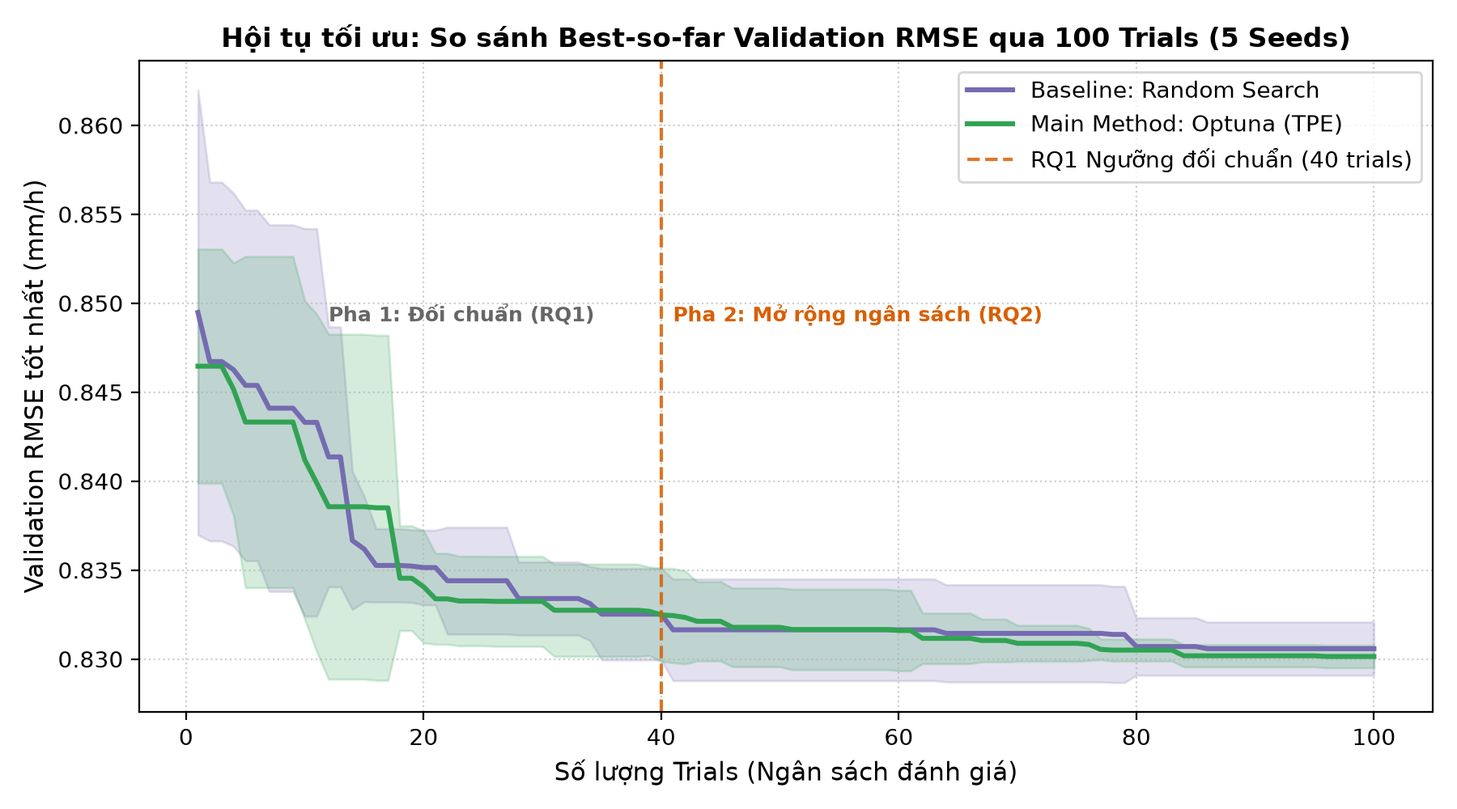
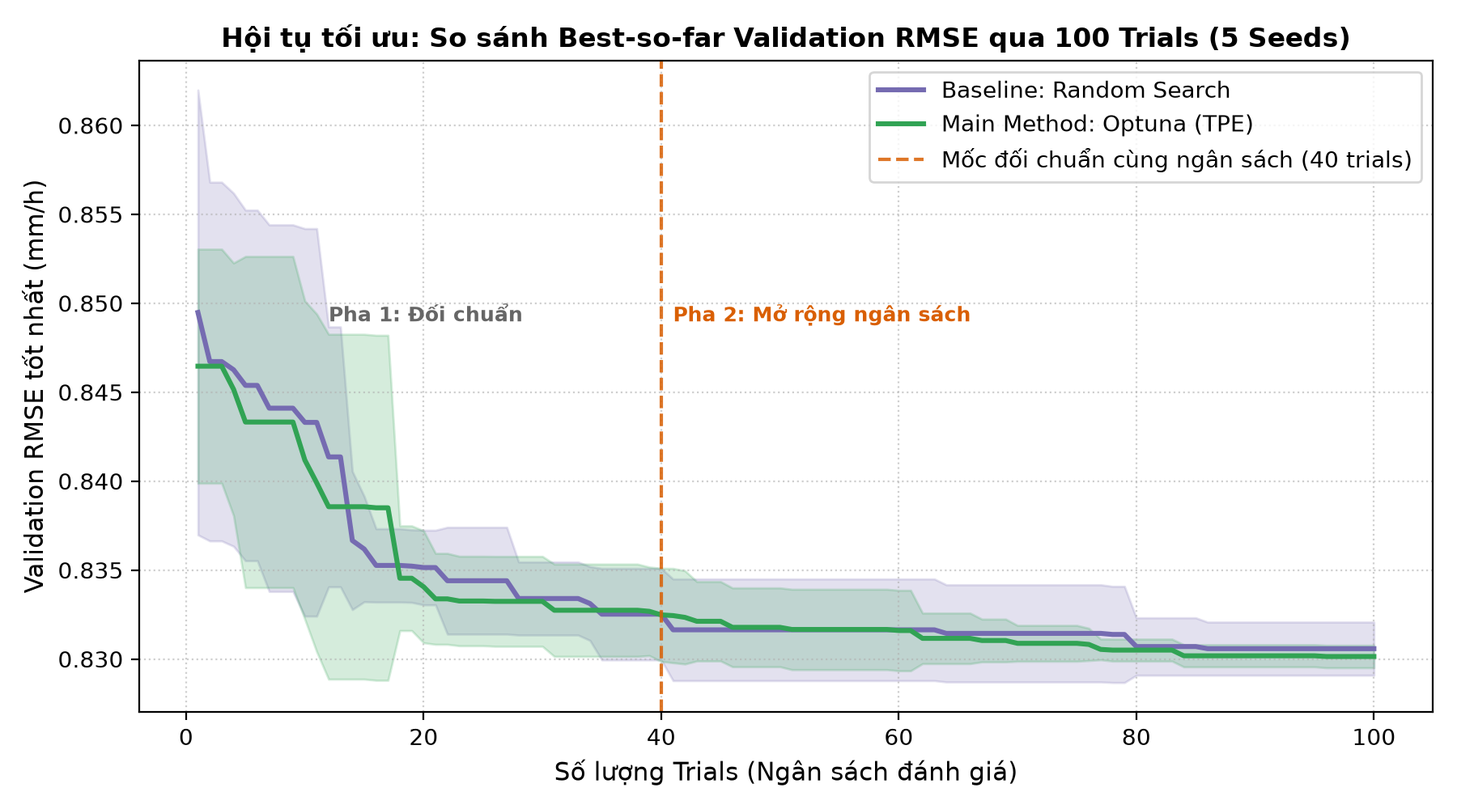
update 03/11/2026

Changed region(s): [[0.5911, 0.093, 0.9333, 0.217], [0.6533, 0.372, 0.7156, 0.403], [0.3422, 0.372, 0.4044, 0.403]]

diff --git a/web/index.html b/web/index.html
@@ -121,7 +121,7 @@
             <li>Baseline <span>Random Search</span></li>
             <li>Phương pháp chính <span>Optuna TPE + <code>constraints_func</code></span></li>
             <li>Ngân sách mỗi phương pháp <span id="budget-text">—</span></li>
-            <li>Pha 1 (RQ1) <span>40 trials đầu mỗi seed</span></li>
+            <li>Pha 1 <span>40 trials đầu mỗi seed</span></li>
             <li>Tập Test <span>dùng 1 lần, sau khi chọn nghiệm</span></li>
           </ul>
         </article>

diff --git a/web/app.js b/web/app.js
@@ -847,7 +847,7 @@ function drawConvergence() {
   drawAxisX(f, x, xTicks, String);
   drawAxisTitles(f, "Val RMSE (mm/h)", "Số trial đã chạy (mỗi seed)");
 
-  // Hết Pha 1 (so sánh cùng ngân sách cho RQ1)
+  // Hết Pha 1 (so sánh cùng ngân sách)
   if (n >= 40) {
     svgEl("line", { x1: x(40), x2: x(40), y1: f.y1, y2: f.y0, class: "ref-line" }, f.svg);
     svgEl("text", { x: x(40) + 6, y: f.y1 + 10, class: "ref-label" }, f.svg).textContent = "Hết Pha 1 (40 trials)";

diff --git a/src/evaluation/evaluate_final.py b/src/evaluation/evaluate_final.py
@@ -12,7 +12,7 @@ Module đánh giá cuối cùng và trực quan hóa đa mô hình.
 7. Giải lại bài toán epsilon-constraint cho nhiều ngân sách độ trễ (quyết định theo từng kịch bản) và
    báo cáo chi phí tìm kiếm (số lượt đánh giá; thời gian chạy khi log có cột trial_time_s).
 
-Đầu ra (nguồn số liệu gốc duy nhất cho README / bài báo):
+Đầu ra (nguồn số liệu gốc duy nhất cho README / báo cáo):
     results/multi_model_benchmark.csv, results/final_test_metrics.json, results/epsilon_scenarios.csv,
     results/figures/*.png
 Lưu ý: độ trễ của Persistence / Climatology là giá trị danh nghĩa cố định, không phải giá trị đo.
@@ -189,7 +189,7 @@ def plot_pareto_frontier(df_all: pd.DataFrame):
 
 
 def plot_convergence_comparison(df_random: pd.DataFrame, df_optuna: pd.DataFrame):
-    """Vẽ đường tốt nhất tính đến hiện tại theo từng trial (có mốc 40 trial của RQ1): Random Search vs Optuna TPE."""
+    """Vẽ đường tốt nhất tính đến hiện tại theo từng trial (có mốc 40 trial của Pha 1): Random Search vs Optuna TPE."""
     plt.figure(figsize=(9, 5))
 
     def get_convergence_matrix(df: pd.DataFrame) -> np.ndarray:
@@ -225,11 +225,11 @@ def plot_convergence_comparison(df_random: pd.DataFrame, df_optuna: pd.DataFrame
     plt.plot(trials_axis, mean_o, label="Main Method: Optuna (TPE)", color="#31a354", linewidth=2.2)
     plt.fill_between(trials_axis, mean_o - std_o, mean_o + std_o, color="#31a354", alpha=0.2)
 
-    # Đánh dấu mốc cắt RQ1 tại trial 40 nếu mỗi seed có ít nhất 40 trial
+    # Đánh dấu mốc cắt Pha 1 tại trial 40 nếu mỗi seed có ít nhất 40 trial
     if len(trials_axis) >= 40:
-        plt.axvline(x=40, color="#d95f02", linestyle="--", linewidth=1.5, alpha=0.85, label="RQ1 Ngưỡng đối chuẩn (40 trials)")
-        plt.text(41, np.nanmax(mean_r) - 0.0005, "Pha 2: Mở rộng ngân sách (RQ2)", fontsize=9, color="#d95f02", fontweight="bold")
-        plt.text(12, np.nanmax(mean_r) - 0.0005, "Pha 1: Đối chuẩn (RQ1)", fontsize=9, color="#666666", fontweight="bold")
+        plt.axvline(x=40, color="#d95f02", linestyle="--", linewidth=1.5, alpha=0.85, label="Mốc đối chuẩn cùng ngân sách (40 trials)")
+        plt.text(41, np.nanmax(mean_r) - 0.0005, "Pha 2: Mở rộng ngân sách", fontsize=9, color="#d95f02", fontweight="bold")
+        plt.text(12, np.nanmax(mean_r) - 0.0005, "Pha 1: Đối chuẩn", fontsize=9, color="#666666", fontweight="bold")
 
     n_trials_per_seed = len(trials_axis)
     plt.title(f"Hội tụ tối ưu: So sánh Best-so-far Validation RMSE qua {n_trials_per_seed} Trials (5 Seeds)", fontsize=12, fontweight="bold")

diff --git a/src/models/optimize_optuna.py b/src/models/optimize_optuna.py
@@ -6,8 +6,8 @@ Tìm biến quyết định x = (L, theta) trên một không gian tìm kiếm c
     - theta: Các siêu tham số của LightGBM
 Hàm mục tiêu: cực tiểu hóa RMSE trên tập Val với ràng buộc độ trễ end-to-end P95 <= 5.0 ms,
         đo theo giao thức pha tìm kiếm (SEARCH_PROTOCOL trong src/evaluation/latency.py), giống lúc sinh log.
-Ngân sách: mặc định 100 trial/seed với 5 seed ngẫu nhiên (tổng 500 lượt đánh giá, RQ2 - mở rộng ngân sách);
-        có thể đặt 40 trial/seed (200 lượt đánh giá) để so sánh công bằng cùng ngân sách cho RQ1.
+Ngân sách: mặc định 100 trial/seed với 5 seed ngẫu nhiên (tổng 500 lượt đánh giá, giai đoạn 2 - mở rộng ngân sách);
+        có thể đặt 40 trial/seed (200 lượt đánh giá) để so sánh công bằng cùng ngân sách ở giai đoạn 1.
 Chi phí tìm kiếm: mỗi trial trong log đều ghi trial_time_s (số giây thực tế cho lấy mẫu TPE, huấn luyện,
         đánh giá trên tập Val và benchmark độ trễ).
 """
@@ -167,8 +167,8 @@ def run_optuna_search(n_trials: int = 40, seeds: List[int] = DEFAULT_SEEDS) -> p
 
 
 if __name__ == "__main__":
-    parser = argparse.ArgumentParser(description="Run Constrained Optuna TPE Optimization (RQ1 & RQ2).")
-    parser.add_argument("--trials", type=int, default=100, help="Number of trials per seed (default: 100 for 500 scaling trials; set 40 for RQ1 fair comparison)")
+    parser = argparse.ArgumentParser(description="Run Constrained Optuna TPE Optimization.")
+    parser.add_argument("--trials", type=int, default=100, help="Number of trials per seed (default: 100 for 500 scaling trials; set 40 for the phase-1 equal-budget comparison)")
     parser.add_argument("--seeds", type=int, nargs="+", default=DEFAULT_SEEDS, help="Random seeds (default: 5 seeds)")
     args = parser.parse_args()
 

diff --git a/src/models/optimize_random.py b/src/models/optimize_random.py
@@ -6,8 +6,8 @@ Tìm biến quyết định x = (L, theta) trên một không gian tìm kiếm c
     - theta: Các siêu tham số của LightGBM
 Hàm mục tiêu: cực tiểu hóa RMSE trên tập Val với ràng buộc độ trễ end-to-end P95 <= 5.0 ms,
         đo theo giao thức pha tìm kiếm (SEARCH_PROTOCOL trong src/evaluation/latency.py), giống lúc sinh log.
-Ngân sách: mặc định 100 trial/seed với 5 seed ngẫu nhiên (tổng 500 lượt đánh giá, RQ2 - mở rộng ngân sách);
-        có thể đặt 40 trial/seed (200 lượt đánh giá) để so sánh công bằng cùng ngân sách cho RQ1.
+Ngân sách: mặc định 100 trial/seed với 5 seed ngẫu nhiên (tổng 500 lượt đánh giá, giai đoạn 2 - mở rộng ngân sách);
+        có thể đặt 40 trial/seed (200 lượt đánh giá) để so sánh công bằng cùng ngân sách ở giai đoạn 1.
 Chi phí tìm kiếm: mỗi trial trong log đều ghi trial_time_s (số giây thực tế cho lấy mẫu, huấn luyện,
         đánh giá trên tập Val và benchmark độ trễ).
 """
@@ -184,8 +184,8 @@ def run_random_search(n_trials: int = 40, seeds: List[int] = DEFAULT_SEEDS) -> p
 
 
 if __name__ == "__main__":
-    parser = argparse.ArgumentParser(description="Run Constrained Random Search Baseline (RQ1 & RQ2).")
-    parser.add_argument("--trials", type=int, default=100, help="Number of trials per seed (default: 100 for 500 scaling trials; set 40 for RQ1 fair comparison)")
+    parser = argparse.ArgumentParser(description="Run Constrained Random Search Baseline.")
+    parser.add_argument("--trials", type=int, default=100, help="Number of trials per seed (default: 100 for 500 scaling trials; set 40 for the phase-1 equal-budget comparison)")
     parser.add_argument("--seeds", type=int, nargs="+", default=DEFAULT_SEEDS, help="Random seeds (default: 5 seeds)")
     args = parser.parse_args()
 

diff --git a/README.md b/README.md
@@ -6,14 +6,14 @@
 [![Data License: CC BY-NC 4.0](https://img.shields.io/badge/Data%20License-CC%20BY--NC%204.0-lightgrey.svg)](https://creativecommons.org/licenses/by-nc/4.0/)
 [![Optimization: Optuna TPE](https://img.shields.io/badge/Optimization-Optuna%20TPE-orange.svg)](https://optuna.org/)
 
-> **Course Project:** Introduction to Optimization (*Nhập môn Tối ưu hóa*)  
-> **Institution:** Faculty of Information Technology, Van Lang University  
-> **Topic:** Supervised Time-Series Forecasting under Hardware/Latency Constraint  
+> **Bài tập lớn môn:** Nhập môn Tối ưu hóa (*Introduction to Optimization*)  
+> **Đơn vị:** Khoa Công nghệ Thông tin, Trường Đại học Văn Lang  
+> **Chủ đề:** Dự báo chuỗi thời gian có giám sát dưới ràng buộc độ trễ suy luận  
 >  
-> 📄 **Official Research Deliverables:**  
-> * **Báo cáo Nghiên cứu Khoa học Toàn diện (Academic Paper PDF):** [`docs/BAI_BAO_KHOA_HOC_TOI_UU_HOA_DU_BAO_LUONG_MUA.pdf`](docs/BAI_BAO_KHOA_HOC_TOI_UU_HOA_DU_BAO_LUONG_MUA.pdf) *(Bản Markdown: [`docs/BAI_BAO_KHOA_HOC_TOI_UU_HOA_DU_BAO_LUONG_MUA.md`](docs/BAI_BAO_KHOA_HOC_TOI_UU_HOA_DU_BAO_LUONG_MUA.md))*  
-> * **Đề cương Thuyết minh Đề tài (Proposal PDF):** [`docs/PROPOSAL_TOI_UU_HOA_DU_BAO_LUONG_MUA.pdf`](docs/PROPOSAL_TOI_UU_HOA_DU_BAO_LUONG_MUA.pdf) *(Bản Markdown: [`docs/PROPOSAL.md`](docs/PROPOSAL.md))*  
-> * **Web Dashboard Tương tác Trực quan:** `python src/server.py` → Truy cập tại `http://127.0.0.1:8000`
+> 📄 **Tài liệu bài tập lớn:**  
+> * **Báo cáo bài tập lớn (PDF):** [`docs/BAO_CAO_BAI_TAP_LON_TOI_UU_HOA_DU_BAO_LUONG_MUA.pdf`](docs/BAO_CAO_BAI_TAP_LON_TOI_UU_HOA_DU_BAO_LUONG_MUA.pdf)  
+> * **Đề cương bài tập lớn (PDF):** [`docs/PROPOSAL_TOI_UU_HOA_DU_BAO_LUONG_MUA.pdf`](docs/PROPOSAL_TOI_UU_HOA_DU_BAO_LUONG_MUA.pdf) *(Bản Markdown: [`docs/PROPOSAL.md`](docs/PROPOSAL.md))*  
+> * **Web Dashboard trực quan:** `python src/server.py` → Truy cập tại `http://127.0.0.1:8000`
 
 ---
 
@@ -21,10 +21,7 @@
 
 Ngập lụt đô thị do mưa lớn cường độ cao trong thời gian ngắn là một thách thức vận hành cấp bách ở các đô thị lớn như TP. Hồ Chí Minh. Hệ thống cảnh báo ngập sớm cần dự báo lượng mưa giờ tới đủ tin cậy. Tuy nhiên, khi triển khai thời gian thực trên thiết bị biên hoặc máy chủ, việc nâng cao độ chính xác dự báo không được kéo theo chi phí tính toán quá lớn.
 
-**Câu hỏi nghiên cứu:**  
-* **RQ1 (So sánh công bằng với cùng ngân sách):** Với cùng một ngân sách đánh giá ($N = 40$ trial/seed trên 5 random seed), tối ưu Bayes bằng Optuna TPE có tìm được cấu hình khả thi ($P_{95} \le 5.0\text{ ms}$) với Val RMSE thấp hơn và tỷ lệ khả thi cao hơn rõ rệt so với Random Search hay không?
-* **RQ2 (Mở rộng ngân sách và điểm bão hòa):** Khi tăng ngân sách lên $N = 100$ trial/seed $\times$ 5 seed = 500 trial, nghiệm tối ưu có tiếp tục cải thiện không, và quá trình hội tụ bắt đầu bão hòa ở đâu?
-* **RQ3 (Đánh đổi giữa độ chính xác và độ trễ):** Trên các mức dung lượng mô hình ($n_{\text{estimators}} \in \{20, 50, 100, 150, 200, 300\}$) và các cửa sổ lịch sử $L$, biên Pareto thể hiện sự đánh đổi giữa độ chính xác dự báo và độ trễ thực thi như thế nào?
+Bài tập lớn đưa yêu cầu này về một bài toán tối ưu có ràng buộc (mục 2): chọn độ dài cửa sổ lịch sử $L$ và các siêu tham số của LightGBM sao cho sai số trên tập Validation nhỏ nhất, với điều kiện độ trễ suy luận $P_{95}$ không vượt quá 5 ms, rồi so sánh hai phương pháp tìm kiếm là Random Search và Optuna TPE.
 
 * **Biến mục tiêu:** Tổng lượng mưa của 1 giờ tới ($y_{t+1}$, đơn vị mm) tại trạm Tân Sơn Nhất (mã WMO: `48900`).
 * **Nguồn dữ liệu thô và cổng kiểm soát chất lượng (Data Quality Gate):**
@@ -32,7 +29,7 @@ Ngập lụt đô thị do mưa lớn cường độ cao trong thời gian ngắ
   - **Năm 2021:** Thiếu **100.0%** dữ liệu lượng mưa (trạm 48900 chưa tích hợp cảm biến đo mưa theo giờ).
   - **Năm 2022:** Thiếu **40.23%** (chỉ bắt đầu ghi nhận từ giữa năm 2022).
   
-  Ngược lại, giai đoạn 3 năm liên tục **2023–2025** (26.304 giờ) đạt độ đầy đủ vượt trội (năm 2023 thiếu 0.00%, năm 2024 thiếu 2.93%, năm 2025 thiếu 3.47%, trung bình toàn kỳ chỉ **2.13%**, đạt chuẩn $\le 5\%$) và được chọn làm tập dữ liệu nghiên cứu chính thức. Ngưỡng 5% theo năm được kiểm tra tự động mỗi lần nạp dữ liệu (`check_quality_gate` trong `src/features/build_features.py`): nếu dữ liệu tải lại có năm nào thiếu quá 5%, pipeline dừng và báo lỗi thay vì chạy tiếp.
+  Ngược lại, giai đoạn 3 năm liên tục **2023–2025** (26.304 giờ) đạt độ đầy đủ vượt trội (năm 2023 thiếu 0.00%, năm 2024 thiếu 2.93%, năm 2025 thiếu 3.47%, trung bình toàn kỳ chỉ **2.13%**, đạt chuẩn $\le 5\%$) và được chọn làm tập dữ liệu chính thức của bài tập lớn. Ngưỡng 5% theo năm được kiểm tra tự động mỗi lần nạp dữ liệu (`check_quality_gate` trong `src/features/build_features.py`): nếu dữ liệu tải lại có năm nào thiếu quá 5%, pipeline dừng và báo lỗi thay vì chạy tiếp.
 
 ---
 
@@ -70,8 +67,8 @@ $$T_{\text{e2e}} = T_{\text{feature\_transform}}(L) + T_{\text{predict}}(\theta)
 * **Đo lường đa lượt (Multi-run Stability):** Mô hình champion được đo lường qua 5 phiên độc lập (mỗi phiên 100 lần lặp sau 20 lần warmup) và báo cáo giá trị trung vị (median) cùng khoảng dao động $[\min, \max]$. Với giao thức `deploy`, bộ thu gom rác (GC) của Python được tạm dừng trong vòng đo (giống `timeit`) để loại nhiễu GC khỏi đuôi $P_{95}$.
 
 ### Two-Tier Experimental Budget Protocol
-* **Phase 1: Equal-Budget Comparison (RQ1):** Random Search vs Optuna TPE at **40 trials per seed** across 5 random seeds (`42, 123, 456, 789, 2026`) — total 200 evaluations per method. Phase 1 is read from the **first 40 trials of each 100-trial run** (TPE does not know the total budget, so its first 40 proposals are identical to a standalone 40-trial run). Optuna achieves **59.0% feasible rate** (118/200) vs **39.0%** (78/200) for Random Search (**+20.0 pp**). At this budget the best feasible Val RMSE is the same for both methods ($0.8325 \pm 0.0029$).
-* **Phase 2: Budget Scaling & Convergence Analysis (RQ2):** Scale budget up to **100 trials per seed $\times$ 5 seeds = 500 trials** per method (1,000 total evaluations). Across seeds, the spread of Optuna's best Val RMSE shrinks from $\sigma = 0.0029$ (40 trials) to $\sigma = 0.0007$ (100 trials), versus $\sigma = 0.0017$ for 100-trial Random Search ($-57.6\%$). Optuna achieves **62.4% feasible rate** (312/500) vs **48.6%** (243/500) for Random Search (**+13.8 pp**).
+* **Phase 1: Equal-Budget Comparison:** Random Search vs Optuna TPE at **40 trials per seed** across 5 random seeds (`42, 123, 456, 789, 2026`) — total 200 evaluations per method. Phase 1 is read from the **first 40 trials of each 100-trial run** (TPE does not know the total budget, so its first 40 proposals are identical to a standalone 40-trial run). Optuna achieves **59.0% feasible rate** (118/200) vs **39.0%** (78/200) for Random Search (**+20.0 pp**). At this budget the best feasible Val RMSE is the same for both methods ($0.8325 \pm 0.0029$).
+* **Phase 2: Budget Scaling & Convergence Analysis:** Scale budget up to **100 trials per seed $\times$ 5 seeds = 500 trials** per method (1,000 total evaluations). Across seeds, the spread of Optuna's best Val RMSE shrinks from $\sigma = 0.0029$ (40 trials) to $\sigma = 0.0007$ (100 trials), versus $\sigma = 0.0017$ for 100-trial Random Search ($-57.6\%$). Optuna achieves **62.4% feasible rate** (312/500) vs **48.6%** (243/500) for Random Search (**+13.8 pp**).
 * **Selection Rule:** Chọn nghiệm có validation RMSE thấp nhất trong tập các cấu hình khả thi ($T_{\text{e2e}} \le 5.0\text{ ms}$).
 * **ε-constraint:** Về phương pháp, bài toán trên là dạng **ε-constraint** của bài toán hai mục tiêu (min RMSE, min độ trễ) với $\varepsilon = 5.0\text{ ms}$. Mục 4.4 giải lại bài toán với nhiều mức $\varepsilon$ để ra quyết định theo kịch bản triển khai.
 * **Test Evaluation:** Đánh giá đúng 1 lần duy nhất trên tập Test (H2/2025) để đối chuẩn khách quan.
@@ -177,7 +174,7 @@ Báo cáo thống kê trung bình $\pm$ độ lệch chuẩn trên 5 random seed
 | **Độ trễ End-to-End Champion (C-API)** | 0.936 ms | **0.683 ms** *(range [0.66, 0.75])* | **Thỏa mãn SLA 5.0 ms & Biên an toàn 4.5 ms** |
 | **Chỉ số F1 phát hiện mưa dông trên Test** | 0.5778 | **0.5882** | Optuna cao hơn +1.04 điểm phần trăm |
 
-*Ghi chú khoa học về Kiểm định & Cơ chế Ràng buộc:* Bề mặt hàm mục tiêu Validation quanh vùng tối ưu khá phẳng với nhiều cấu hình ($L=1, 36, 48$ và `max_depth` khác nhau) đều cho sai số trong khoảng 0.8297–0.8318 (kiểm định Paired $t$-test trên 5 seeds không bác bỏ $H_0$ với $p = 0.6742$). Về tỷ lệ khả thi, hai cách kiểm định cho hai mức độ tin cậy khác nhau: (i) Fisher's exact test gộp 1.000 trials cho $p = 1.47 \times 10^{-5}$ ($\chi^2 = 18.72$ có hiệu chỉnh Yates, OR = 1.76, 95% CI $[+7.7\%, +19.9\%]$), nhưng phép thử này **giả định các trial độc lập**, trong khi TPE đề xuất trial sau dựa trên các trial trước nên các trial cùng seed tương quan với nhau; (ii) kiểm định theo seed (đúng đơn vị lặp lại độc lập) cho thấy Optuna dẫn ở 4/5 seeds nhưng **chưa đạt ý nghĩa thống kê** (Wilcoxon $p = 0.1875$, paired $t$-test $p = 0.162$; với $n = 5$, Wilcoxon hai phía không thể cho $p < 0.0625$). Kết luận thận trọng: ưu thế tỷ lệ khả thi của Optuna nhất quán về hướng nhưng cần thêm seed để khẳng định. Lợi thế thực tiễn rõ ràng nhất là Optuna tìm ra kiến trúc tinh gọn $L=1$ (giảm 77.8% số chiều đặc trưng và 83.3% số hàng đệm chuỗi thời gian).
+*Ghi chú về Kiểm định & Cơ chế Ràng buộc:* Bề mặt hàm mục tiêu Validation quanh vùng tối ưu khá phẳng với nhiều cấu hình ($L=1, 36, 48$ và `max_depth` khác nhau) đều cho sai số trong khoảng 0.8297–0.8318 (kiểm định Paired $t$-test trên 5 seeds không bác bỏ $H_0$ với $p = 0.6742$). Về tỷ lệ khả thi, hai cách kiểm định cho hai mức độ tin cậy khác nhau: (i) Fisher's exact test gộp 1.000 trials cho $p = 1.47 \times 10^{-5}$ ($\chi^2 = 18.72$ có hiệu chỉnh Yates, OR = 1.76, 95% CI $[+7.7\%, +19.9\%]$), nhưng phép thử này **giả định các trial độc lập**, trong khi TPE đề xuất trial sau dựa trên các trial trước nên các trial cùng seed tương quan với nhau; (ii) kiểm định theo seed (đúng đơn vị lặp lại độc lập) cho thấy Optuna dẫn ở 4/5 seeds nhưng **chưa đạt ý nghĩa thống kê** (Wilcoxon $p = 0.1875$, paired $t$-test $p = 0.162$; với $n = 5$, Wilcoxon hai phía không thể cho $p < 0.0625$). Kết luận thận trọng: ưu thế tỷ lệ khả thi của Optuna nhất quán về hướng nhưng cần thêm seed để khẳng định. Lợi thế thực tiễn rõ ràng nhất là Optuna tìm ra kiến trúc tinh gọn $L=1$ (giảm 77.8% số chiều đặc trưng và 83.3% số hàng đệm chuỗi thời gian).
 
 ### 4. Quyết định theo Kịch bản Ngân sách Độ trễ (ε-constraint Scenarios)
 
@@ -233,7 +230,7 @@ pip install -r requirements.txt
    ```bash
    python src/data/download.py
    ```
-2. **Chạy Baseline (Random Search - 100 trials x 5 seeds = 500 trials; số liệu Phase 1 / RQ1 được đọc từ 40 trials đầu của mỗi seed):**
+2. **Chạy Baseline (Random Search - 100 trials x 5 seeds = 500 trials; số liệu Phase 1 được đọc từ 40 trials đầu của mỗi seed):**
    ```bash
    python src/models/optimize_random.py --trials 100
    ```
@@ -288,14 +285,14 @@ pip install -r requirements.txt
 4. **Phạm vi Trạm Đơn lẻ:**
    - Dữ liệu thu thập từ trạm Tân Sơn Nhất (`48900`) chưa phản ánh tính phân hóa không gian (spatial heterogeneity) lượng mưa trên toàn địa bàn TP.HCM.
 5. **Độ lệch Mẫu khi So sánh các Cửa sổ $L$ (Sample Truncation by Lag):**
-   - Do mỗi giá trị cửa sổ lịch sử $L$ đòi hỏi $L$ hàng dữ liệu quá khứ liên tục để khởi tạo đặc trưng, số dòng bị `dropna` ở đầu tập dữ liệu sẽ khác nhau giữa các giá trị $L$ (ví dụ: cấu hình $L=72$ mất 71 dòng dữ liệu đầu tiên nhiều hơn cấu hình $L=1$). Dù độ lệch này rất nhỏ trên tổng số 17.286 mẫu train (~0.4%), trong các nghiên cứu tiếp theo có thể chuẩn hóa bằng cách cắt bỏ cố định $L_{\max} = 72$ dòng đầu tiên cho tất cả các cấu hình để đảm bảo tập mẫu đánh giá hoàn toàn đồng nhất tuyệt đối.
+   - Do mỗi giá trị cửa sổ lịch sử $L$ đòi hỏi $L$ hàng dữ liệu quá khứ liên tục để khởi tạo đặc trưng, số dòng bị `dropna` ở đầu tập dữ liệu sẽ khác nhau giữa các giá trị $L$ (ví dụ: cấu hình $L=72$ mất 71 dòng dữ liệu đầu tiên nhiều hơn cấu hình $L=1$). Dù độ lệch này rất nhỏ trên tổng số 17.286 mẫu train (~0.4%), trong các lần thực nghiệm tiếp theo có thể chuẩn hóa bằng cách cắt bỏ cố định $L_{\max} = 72$ dòng đầu tiên cho tất cả các cấu hình để đảm bảo tập mẫu đánh giá hoàn toàn đồng nhất tuyệt đối.
 6. **Chiến lược Kiểm định Chéo Theo Chuỗi Thời Gian (Rolling-Origin Cross-Validation):**
-   - Để mô phỏng sát nhất kịch bản vận hành thực tế và thách thức chuyển dịch mùa tự nhiên (với H2 là mùa mưa đỉnh điểm), nghiên cứu hiện tại áp dụng một phân chia theo trình tự thời gian cố định: Huấn luyện (2023–2024), Đánh giá kiểm định (H1/2025) và Kiểm thử độc lập (H2/2025). Hướng phát triển tiếp theo là áp dụng phương pháp Time-Series Rolling-Origin Cross-Validation (hoặc Expanding Window CV) qua nhiều chu kỳ năm khác nhau nhằm đo lường tính khái quát hóa và độ ổn định dài hạn của các mô hình.
+   - Để mô phỏng sát nhất kịch bản vận hành thực tế và thách thức chuyển dịch mùa tự nhiên (với H2 là mùa mưa đỉnh điểm), bài tập lớn hiện tại áp dụng một phân chia theo trình tự thời gian cố định: Huấn luyện (2023–2024), Đánh giá kiểm định (H1/2025) và Kiểm thử độc lập (H2/2025). Hướng phát triển tiếp theo là áp dụng phương pháp Time-Series Rolling-Origin Cross-Validation (hoặc Expanding Window CV) qua nhiều chu kỳ năm khác nhau nhằm đo lường tính khái quát hóa và độ ổn định dài hạn của các mô hình.
 7. **Số lượng Seed & Khả năng Tái lập Tỷ lệ Khả thi:**
    - Với 5 seeds, kiểm định theo seed không thể đạt $p < 0.05$ bằng Wilcoxon hai phía; cần $\ge 6$ seeds (khuyến nghị 10) để khẳng định ưu thế tỷ lệ khả thi một cách chặt chẽ.
    - Nhật ký tìm kiếm hiện có được đo bằng giao thức `search` (wrapper Scikit-learn, commit `1da4ab6`), và `optimize_*.py` hiện tại vẫn dùng giao thức này. Giao thức `deploy` (`booster_.predict` + trích đặc trưng NumPy) chỉ dùng cho champion và bảng đối chuẩn.
    - **Nhiễu đo theo thời gian chi phối $P_{95}$ của pha tìm kiếm.** Với một mẫu đơn, chi phí duyệt tối đa 300 cây chỉ cỡ micro-giây, nhỏ hơn nhiều so với overhead cố định của wrapper; trong log, $P_{95}$ gần như không tương quan với `n_estimators` (Spearman $\approx 0.01$) và chỉ tương quan vừa với $L$ (0.32–0.42). Trong khi đó, trung vị $P_{95}$ theo từng khối 20 trial liên tiếp của cùng một seed dao động từ 2.07 đến 6.75 ms (Optuna) và từ 2.94 đến 6.46 ms (Random Search). Vì vậy cờ khả thi của một trial phản ánh đáng kể thời điểm chạy, không chỉ cấu hình.
-   - Hệ quả cho RQ1/RQ2: $L$ là yếu tố thật (Random Search khả thi 86.8% ở $L=1$ nhưng chỉ 24.6% ở $L=72$), và TPE dồn mẫu về $L \in \{1, 2\}$ (45.0% số trial so với 22.8% của Random Search). Áp tỷ lệ khả thi theo từng $L$ của Random Search lên phân bố $L$ của TPE cho 57.5%, tức khoảng 8.9 trong 13.8 điểm phần trăm chênh lệch được giải thích bởi việc TPE chọn cửa sổ ngắn. Phần còn lại (~4.9 pp) không tách được khỏi trạng thái máy, vì hai phương pháp chạy ở hai thời điểm khác nhau. Lần chạy lại nên xen kẽ trial của hai phương pháp (hoặc chạy song song trên cùng điều kiện) và đo lặp mỗi cấu hình.
+   - Hệ quả cho việc so sánh tỷ lệ khả thi (Phase 1 và Phase 2): $L$ là yếu tố thật (Random Search khả thi 86.8% ở $L=1$ nhưng chỉ 24.6% ở $L=72$), và TPE dồn mẫu về $L \in \{1, 2\}$ (45.0% số trial so với 22.8% của Random Search). Áp tỷ lệ khả thi theo từng $L$ của Random Search lên phân bố $L$ của TPE cho 57.5%, tức khoảng 8.9 trong 13.8 điểm phần trăm chênh lệch được giải thích bởi việc TPE chọn cửa sổ ngắn. Phần còn lại (~4.9 pp) không tách được khỏi trạng thái máy, vì hai phương pháp chạy ở hai thời điểm khác nhau. Lần chạy lại nên xen kẽ trial của hai phương pháp (hoặc chạy song song trên cùng điều kiện) và đo lặp mỗi cấu hình.
    - Nhật ký hiện có không ghi thời gian từng trial, nên chi phí tìm kiếm mới chỉ được báo cáo bằng số lượt đánh giá. Lần chạy lại sẽ có cột `trial_time_s`.
 8. **Chưa phải hệ thống dự báo trực tiếp:**
    - "Thời gian thực" trong đề tài nghĩa là **suy luận đủ nhanh** để chạy thời gian thực ($P_{95} = 0.683\text{ ms} \ll 5\text{ ms}$). Dự án chưa nối với nguồn dữ liệu trực tiếp: demo dùng các giờ quan trắc thật trong tập Test hoặc giá trị do người dùng nhập. Bản thân Meteostat cũng không phải nguồn trực tiếp: dữ liệu tải ngày 29/10/2026 chỉ có tới 30/03/2026.
@@ -309,7 +306,7 @@ pip install -r requirements.txt
    - Ba hướng xử lý: (A) xin dữ liệu trạm đo mưa tự động theo giờ và giữ nguyên mô hình; (B) huấn luyện lại với đầu vào lấy từ METAR (mức mưa suy ra từ mã hiện tượng thay cho `prcp`), giữ nguyên toàn bộ khung tối ưu, ràng buộc và đánh giá; (C) tự lắp cảm biến đo mưa rồi hiệu chỉnh lại.
    - Phần mềm cần thêm: bộ thu dữ liệu chạy mỗi 30–60 phút, điền khuyết đúng quy tắc lúc huấn luyện, dự báo bằng `extract_features_from_array` + `booster_.predict` (với $L=1$ chỉ cần quan trắc mới nhất), cảnh báo khi vượt ngưỡng, giám sát sai số sau mỗi giờ và huấn luyện lại định kỳ. Trong hệ thống thật, độ trễ toàn trình do thời gian dữ liệu về quyết định (vài phút), còn khâu suy luận (dưới 1 ms) gần như không đáng kể.
 2. **Chạy lại tìm kiếm với 10 seeds:** ghi thời gian từng trial (`trial_time_s`) và có đủ seed cho kiểm định theo seed. Nếu chuyển ràng buộc sang giao thức `deploy` (nhanh hơn nhiều: 4 cấu hình chạy thử chỉ mất khoảng 0.5–0.8 ms), nhiều khả năng phải đặt $\varepsilon$ chặt hơn (ví dụ 1 ms) để ràng buộc còn ý nghĩa.
-3. **Mở rộng không gian lên 400–500 cây** như đề cương dự kiến (RQ3), chạy lại cả hai phương pháp với cùng một giao thức đo.
+3. **Mở rộng không gian lên 400–500 cây** như đề cương dự kiến, chạy lại cả hai phương pháp với cùng một giao thức đo.
 4. **Kiểm định chéo rolling-origin** qua nhiều năm để đo độ ổn định dài hạn (xem hạn chế 6).
 
 ---
